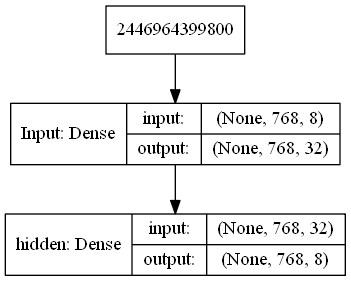
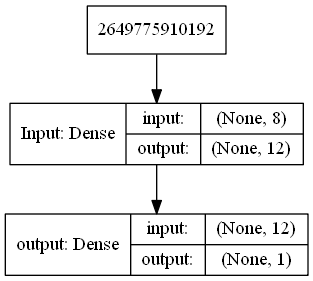
Learning, training and getting the metrics from model
Learning, training and getting the metrics from model

diff --git a/NN/mlp.py b/NN/mlp.py
@@ -14,7 +14,7 @@ dataset = np.loadtxt("C:/Santhosh/AIML/data/pima-indians-diabetes.csv", delimite
 print(dataset.shape)
 # shape (768, 9) -- has 9 columns, Output -- 9th column, input -- first 8 columns
 # X- input, Y- Output
-x = dataset[:,:8]
+x = dataset[:,0:8]
 y = dataset[:,8]
 
 print(x.shape) # (768, 8) -- 768 samples, 8 features
@@ -26,14 +26,26 @@ print(y.size) # 768 records/values
 
 # Model
 model = Sequential()
-model.add((Dense(32, activation='relu', input_shape=x.shape, name='Input')))
-model.add(Dense(8, activation='relu', name='hidden'))
+model.add((Dense(12, activation='relu', input_dim=8, name='Input')))
+# model.add(Dense(8, activation='relu', name='hidden'))
+model.add((Dense(1, activation='sigmoid', name='output')))
 
 # Plotting model
 from keras.utils.vis_utils import plot_model
 plot_model(model, to_file='layers.png', show_shapes=True, show_layer_names=True)
 
 
+#learning - loss, optimizer
+model.compile(loss='binary_crossentropy', optimizer='adam', metrics=['accuracy'])
 
+#train - epochs, dataset
+model.fit(x, y, epochs=150)
+
+#Evaluate - Returns the loss value & metrics values
+metrics = model.evaluate(x, y)
+
+
+print("\n%s: %.2f%%" % (model.metrics_names[1], metrics[1]*100))
+print('Elapsed TIme',time.time() - start_time)
 
 
